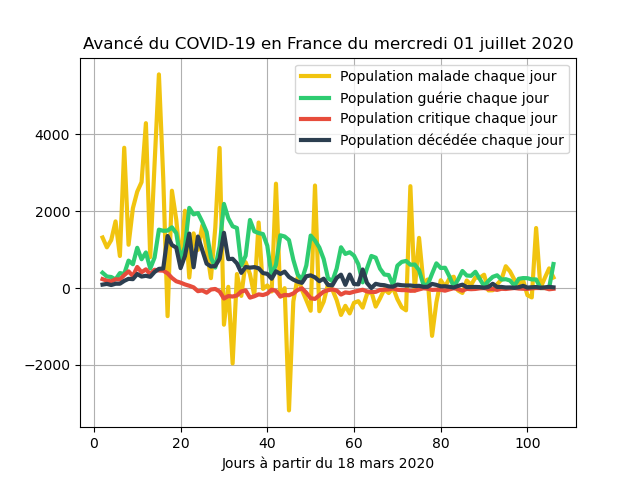
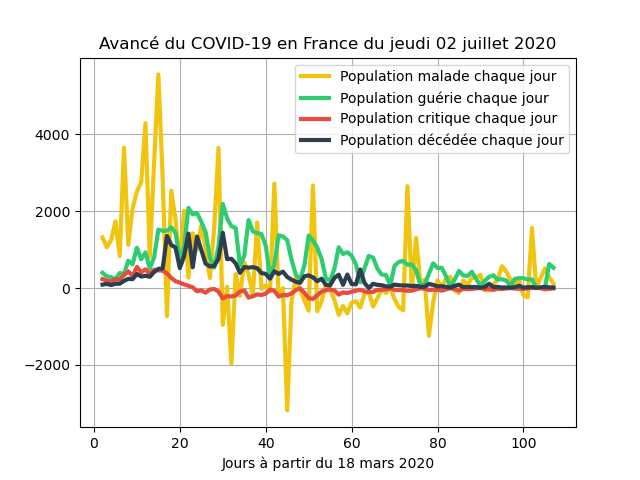
update data

diff --git a/main.py b/main.py
@@ -169,7 +169,6 @@ while True:
         # cases[10] = 0 # nouveaux critique/en réanimation
 
         #cases.insert(index, 'valeur')
-        cases.insert(5, '0')
 
         # Retrouver les données d'hier
         f1 = open("data/dataFrance.csv", "r")
@@ -178,7 +177,7 @@ while True:
 
         try:
             # Vérifier si toutes les données sont publiées
-            if (last_line[0] != str("20" + datetime.datetime.today().strftime("%y-%m-%d")) and cases[14]):
+            if (last_line[0] != str("20" + datetime.datetime.today().strftime("%y-%m-%d")) and cases[15]):
                 verif = True
             else:
                 spinner.color = 'magenta'
